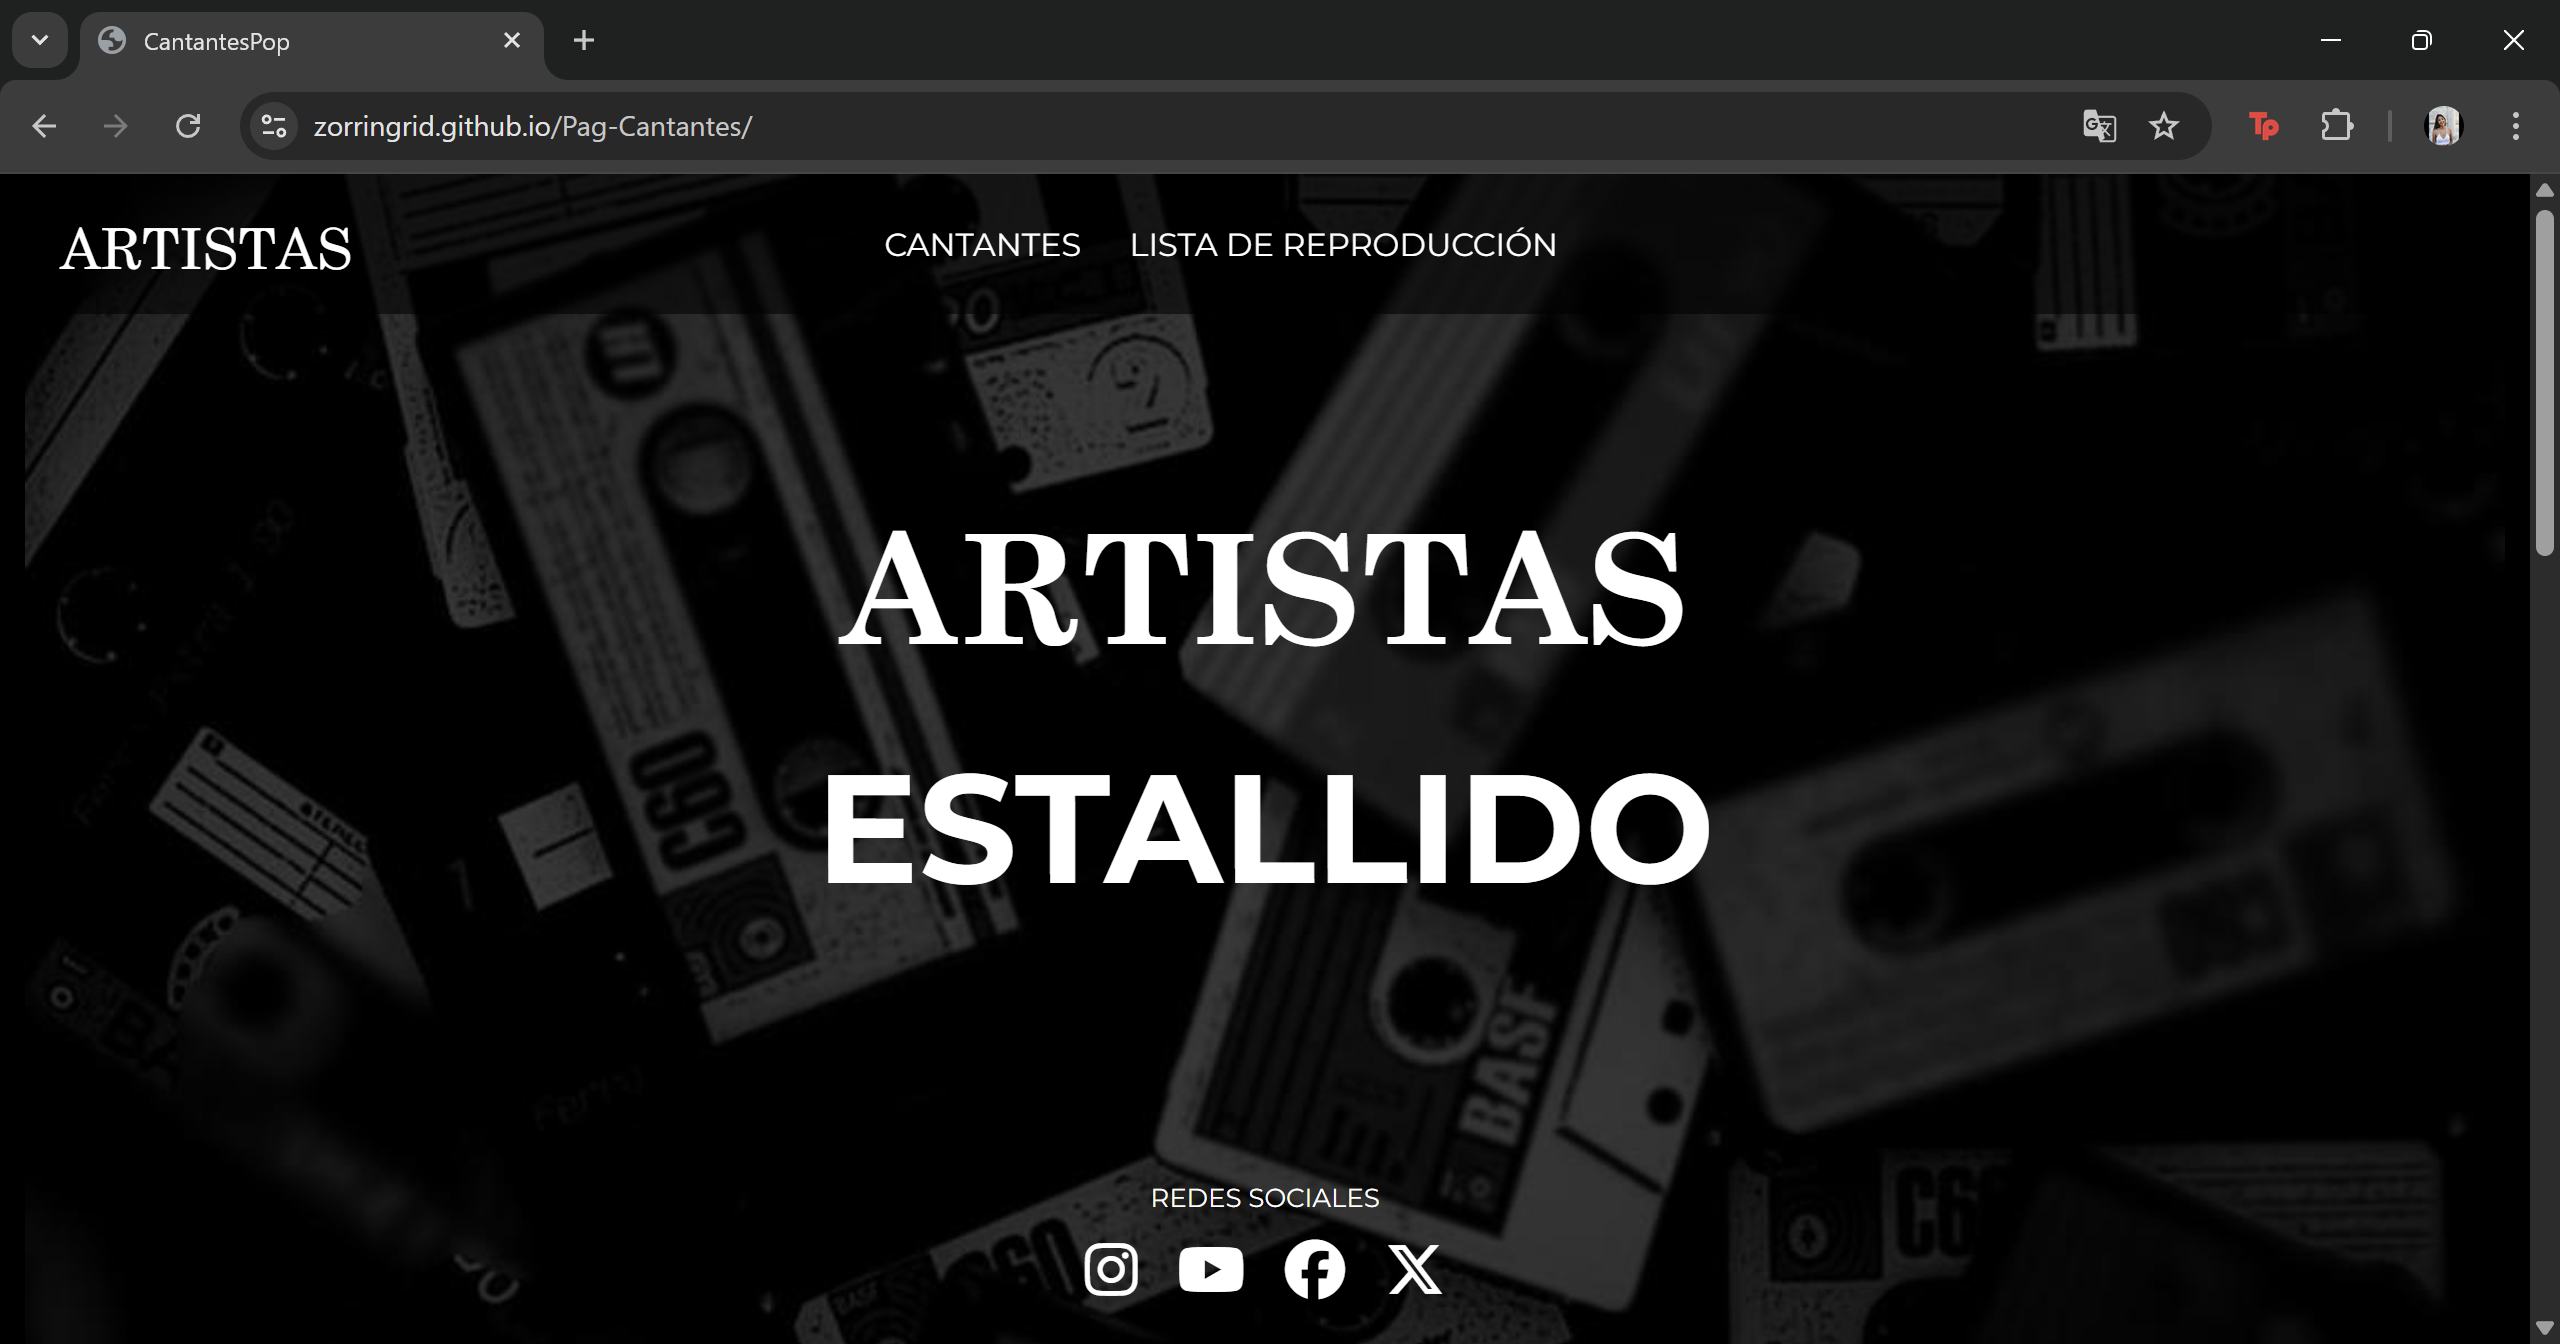
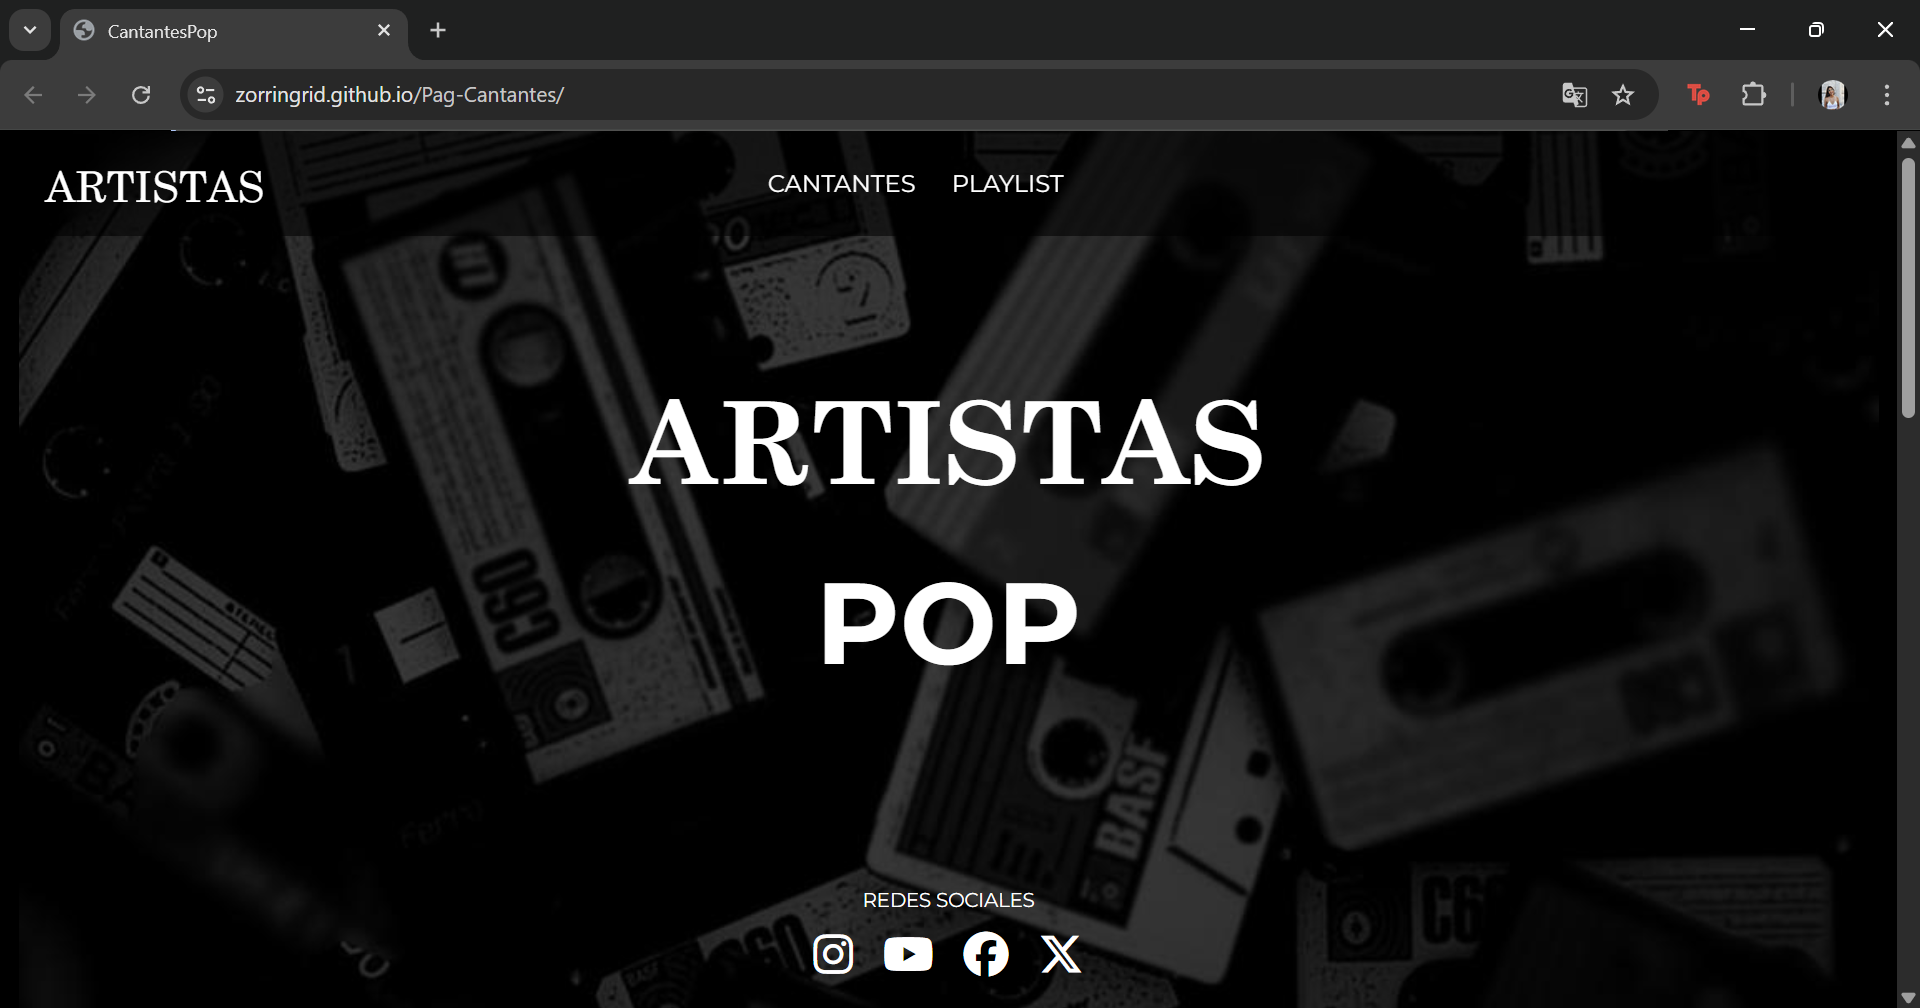
Forumulario acabado

diff --git a/style.css b/style.css
@@ -595,7 +595,33 @@ body {
   width: 15vw;
   margin-bottom: 2%;
 }
-
+.formsend {
+  display: flex;
+  justify-content: center;
+  align-items: center;
+  background-image: url(img/fondoforms2.png);
+  background-position: center;
+  background-repeat: no-repeat;
+  background-size: cover;
+  height: 100vh;
+  width: 100%;
+  padding: 3% 0;
+}
+.formsendtarget {
+  display: flex;
+  flex-direction: column;
+  justify-content: center;
+  align-items: center;
+  width: 50%;
+  padding: 5%;
+  background-color: rgba(255, 255, 255, 0.895);
+  border-radius: 10px;
+  gap: 20px;
+}
+.formsendtarget h3 {
+  color: rgb(138, 138, 138);
+  text-align: center;
+}
 @media (width <= 768px) {
   html,
   body {

diff --git a/formsend.html b/formsend.html
@@ -17,12 +17,14 @@
     />
   </head>
   <body>
-    <div>
-      <h3 class="title">Mensaje Enviado</h3>
-      <p>Muchas gracias!</p>
-      <button class="button">
-        <a href="index.html">Volver</a>
-      </button>
+    <div class="formsend">
+      <div class="formsendtarget">
+        <h3 class="title">Mensaje Enviado</h3>
+        <p>Muchas gracias!</p>
+        <button class="button">
+          <a href="index.html">Volver</a>
+        </button>
+      </div>
     </div>
   </body>
 </html>

diff --git a/index.html b/index.html
@@ -264,7 +264,7 @@
             <input
               type="hidden"
               name="_next"
-              value="https://albertiron2026.github.io/formulario-2-con-envio-email/recibido.html"
+              value="https://zorringrid.github.io/Portfolio/formsend"
             />
             <input type="hidden" name="_captcha" value="false" />
             <h3 class="title" id="contact">CONTACTO</h3>
@@ -277,6 +277,7 @@
               name="name"
               id="name"
               placeholder="ej: Maria Del Carmen"
+              required
             />
             <div class="required">
               <h5>*</h5>
@@ -290,7 +291,6 @@
               required
             />
 
-            <!-- campo de comentarios -->
             <div class="required">
               <h5>*</h5>
               <label for="message">Mensaje:</label>
@@ -302,6 +302,7 @@
               cols="30"
               rows="5"
               maxlength="170"
+              required
             ></textarea>
             <div class="button-container">
               <button type="submit" class="button">ENVIAR</button>